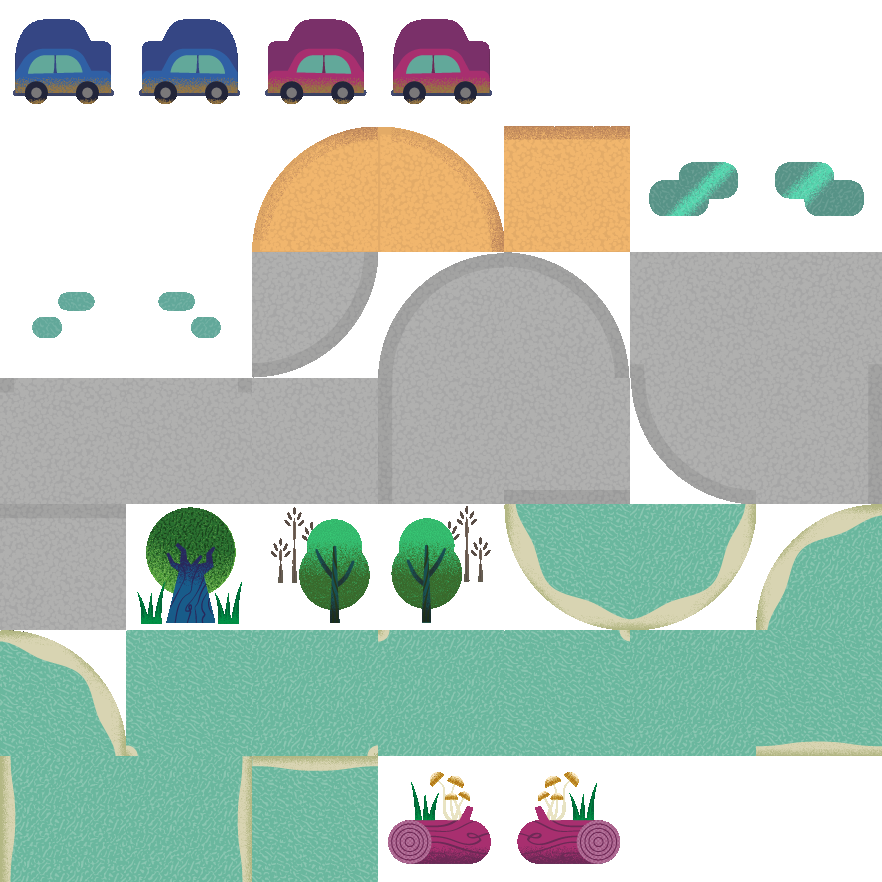
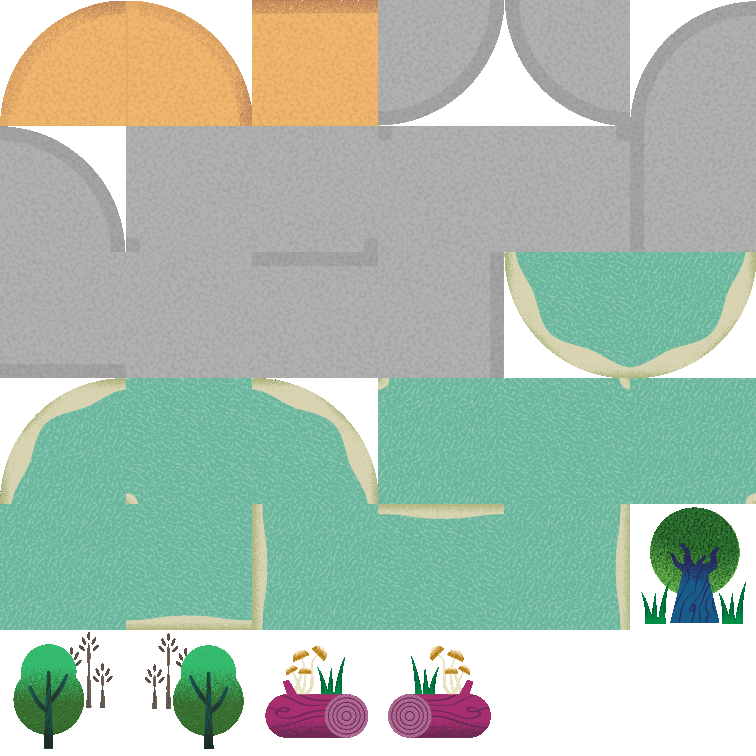
New terrains

diff --git a/src/app/constants/terrain.ts b/src/app/constants/terrain.ts
@@ -11,54 +11,54 @@ export const TERRAIN_INFO: Terrain[] = [
         adj_points: 1,
         passable: true
     },
-    // 1: Water
-    {
-        adj_points: 5,
-        passable: false
-    },
-    // 2: Water
-    {
-        adj_points: 5,
-        passable: false
-    },
-    // 3: Water
-    {
-        adj_points: 5,
-        passable: false
-    },
-    // 4: Water
-    {
-        adj_points: 5,
-        passable: false
-    },
-    // 5: Water
-    {
-        adj_points: 5,
-        passable: false
-    },
-    // 6: START / END
+    // 1: START / END
     {
         adj_points: 0,
         passable: true
     },
-    // 7: START / END
+    // 2: START / END
     {
         adj_points: 0,
         passable: true
     },
-    // 8: START / END
+    // 3: START / END
     {
         adj_points: 0,
         passable: true
     },
-    // 9: START / END
+    // 4: Road
     {
-        adj_points: 0,
+        adj_points: -3,
         passable: true
     },
-    // 10: START / END
+    // 5: Road
     {
-        adj_points: 0,
+        adj_points: -3,
+        passable: true
+    },
+    // 6: Road
+    {
+        adj_points: -3,
+        passable: true
+    },
+    // 7: Road
+    {
+        adj_points: -3,
+        passable: true
+    },
+    // 8: Road
+    {
+        adj_points: -3,
+        passable: true
+    },
+    // 9: Road
+    {
+        adj_points: -3,
+        passable: true
+    },
+    // 10: Road
+    {
+        adj_points: -3,
         passable: true
     },
     // 11: Road
@@ -86,12 +86,98 @@ export const TERRAIN_INFO: Terrain[] = [
         adj_points: -3,
         passable: true
     },
-    // 16: Tree 1
+    // 16: Road
+    {
+        adj_points: -3,
+        passable: true
+    },
+    // 17: Water
+    {
+        adj_points: 5,
+        passable: false
+    },
+    // 18: Water
+    {
+        adj_points: 5,
+        passable: false
+    },
+    // 19: Water
+    {
+        adj_points: 5,
+        passable: false
+    },
+    // 20: Water
+    {
+        adj_points: 5,
+        passable: false
+    },
+    // 21: Water
+    {
+        adj_points: 5,
+        passable: false
+    },
+    // 22: Water
+    {
+        adj_points: 5,
+        passable: false
+    },
+    // 23: Water
+    {
+        adj_points: 5,
+        passable: false
+    },
+    // 24: Water
+    {
+        adj_points: 5,
+        passable: false
+    },
+    // 25: Water
+    {
+        adj_points: 5,
+        passable: false
+    },
+    // 26: Water
+    {
+        adj_points: 5,
+        passable: false
+    },
+    // 27: Water
+    {
+        adj_points: 5,
+        passable: false
+    },
+    // 28: Water
+    {
+        adj_points: 5,
+        passable: false
+    },
+    // 29: Water
+    {
+        adj_points: 5,
+        passable: false
+    },
+    // 30: Tree
     {
         adj_points: 10,
         passable: false
     },
-    // 17: Deadwood
+    // 31: Tree
+    {
+        adj_points: 10,
+        passable: false
+    },
+    // 32: Tree
+    {
+        adj_points: 10,
+        passable: false
+    },
+    // 33: Deadwood
+    {
+        adj_points: 2,
+        passable: false,
+        wood: 1
+    },
+    // 34: Deadwood
     {
         adj_points: 2,
         passable: false,

diff --git a/src/app/services/pixi.service.ts b/src/app/services/pixi.service.ts
@@ -69,8 +69,8 @@ export class PixiService {
     loadBasics() {
         if (!this.isLoaded) {
             this.loader.add([
-                "assets/terrain.json",
-                "assets/terrain.png",
+                "assets/terrain2.json",
+                "assets/terrain2.png",
                 "assets/paths.json",
                 "assets/paths.png"
             ]).load(() => {
@@ -97,7 +97,7 @@ export class PixiService {
 
     private levelLoaded(levelId: number) {
         // SETUP BACKGROUND SPRITESHEET
-        const sheet = this.loader.resources['assets/terrain.json'].spritesheet;
+        const sheet = this.loader.resources['assets/terrain2.json'].spritesheet;
 
         // LOAD LEVEL FROM JSON
         const level = this.loader.resources[`assets/level${levelId}.json`].data;

diff --git a/src/app/constants/constants.ts b/src/app/constants/constants.ts
@@ -9,7 +9,7 @@ export enum KEYS {
     "d" = "RIGHT",
 };
 
-export const TILE_SIZE = 128;
+export const TILE_SIZE = 126;
 export const GRID_HEIGHT = 10;
 export const GRID_WIDTH = 10;
 
